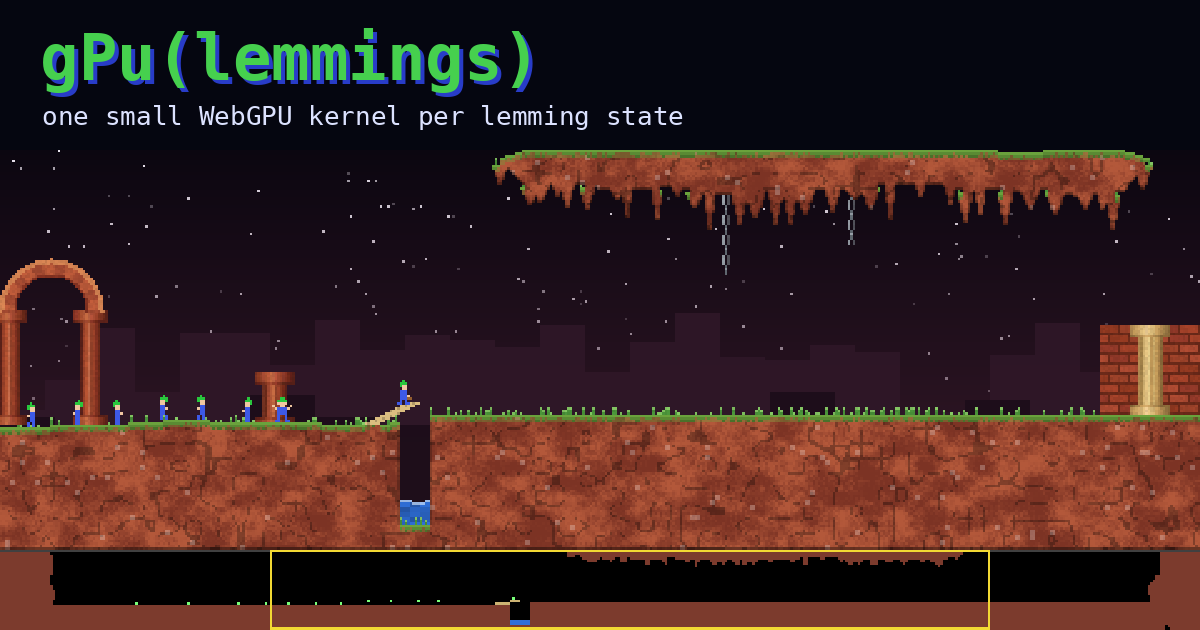
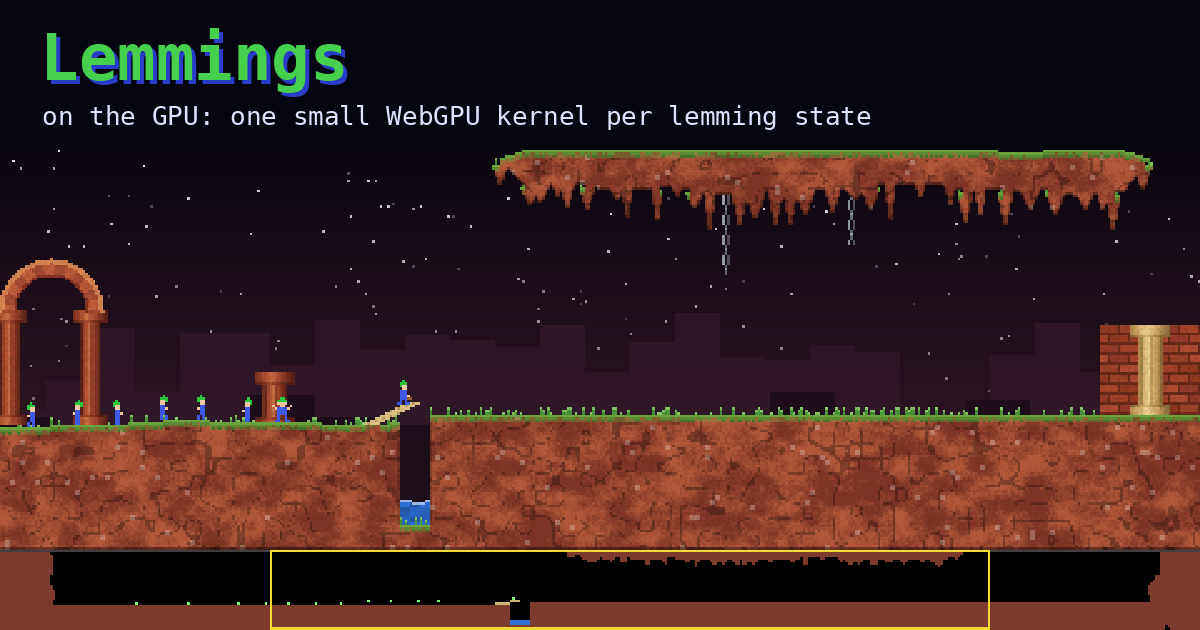
Lemmings: rename from gPu(lemmings)
gPu(doom) reads as P(doom); the lemmings port had no such pun, so it is
plain Lemmings now. Page, menu, manifest, link preview, README, WGSL
headers and the listing. The URL and the saved-progress key stay.

Claude-Session: https://claude.ai/code/session_01P6Fqatg5gunBUe1xQBo87Q

Changed region(s): [[0.0308, 0.0302, 0.6475, 0.2111], [0.6783, 0.1508, 0.74, 0.2111]]

diff --git a/fun-and-games/lemmings/index.html b/fun-and-games/lemmings/index.html
@@ -3,12 +3,12 @@
 <head>
 <meta charset="utf-8">
 <meta name="viewport" content="width=device-width,initial-scale=1,viewport-fit=cover,user-scalable=no">
-<title>gPu(lemmings)</title>
+<title>Lemmings</title>
 <meta name="description" content="A Lemmings-style game written as WebGPU compute shaders: each lemming state is its own small kernel, terrain is a GPU bitmap that bashers, miners and diggers carve, and one level releases ten thousand lemmings.">
 <meta property="og:type" content="website">
 <meta property="og:site_name" content="austegard.com">
-<meta property="og:title" content="gPu(lemmings)">
-<meta name="apple-mobile-web-app-title" content="gPu(lemmings)">
+<meta property="og:title" content="Lemmings">
+<meta name="apple-mobile-web-app-title" content="Lemmings">
 <meta property="og:description" content="Lemmings as WebGPU compute shaders: one small kernel per lemming state, terrain carved on the GPU, and a level of ten thousand lemmings.">
 <meta property="og:url" content="https://austegard.com/fun-and-games/lemmings/">
 <meta property="og:image" content="https://austegard.com/fun-and-games/lemmings/og-image.png">
@@ -16,7 +16,7 @@
 <meta property="og:image:height" content="630">
 <meta property="og:image:alt" content="A crowd of green-haired lemmings held back by a blocker while a builder lays a bridge over a water pit">
 <meta name="twitter:card" content="summary_large_image">
-<meta name="twitter:title" content="gPu(lemmings)">
+<meta name="twitter:title" content="Lemmings">
 <meta name="twitter:description" content="Lemmings as WebGPU compute shaders: one small kernel per lemming state, terrain carved on the GPU, and a level of ten thousand lemmings.">
 <meta name="twitter:image" content="https://austegard.com/fun-and-games/lemmings/og-image.png">
 <link rel="manifest" href="manifest.json">
@@ -106,7 +106,7 @@ button.go:disabled { opacity: .5; cursor: wait; }
 
 <div class="overlay" id="menu">
   <div class="card">
-    <h1>gPu(lemmings)</h1>
+    <h1>Lemmings</h1>
     <p>A Lemmings-style game written as WebGPU compute shaders. Every lemming state (walking, falling, building, bashing, mining, digging…) is its own small GPU kernel, run only over the lemmings in that state. The terrain is a GPU bitmap that bashers, miners, diggers and bombers carve. JavaScript writes the cursor and the chosen skill, and plays the sounds.</p>
     <p class="mute">Not affiliated with the original 1991 game. The levels, art and sounds are made for this page.</p>
     <ol id="levels"></ol>
@@ -146,10 +146,10 @@ button.go:disabled { opacity: .5; cursor: wait; }
 </div>
 
 <script type="module">
-import { Game } from "./engine.js?v=20261029050339";
-import { LEVELS } from "./levels.js?v=20261029050339";
-import { SKILLS, STATE_NAMES, TPS, SND, S, ASSIGN } from "./shaders.js?v=20261029050339";
-import { drawIcon } from "./sprites.js?v=20261029050339";
+import { Game } from "./engine.js?v=20261029120633";
+import { LEVELS } from "./levels.js?v=20261029120633";
+import { SKILLS, STATE_NAMES, TPS, SND, S, ASSIGN } from "./shaders.js?v=20261029120633";
+import { drawIcon } from "./sprites.js?v=20261029120633";
 
 const $ = (id) => document.getElementById(id);
 const canvas = $("screen");

diff --git a/fun-and-games/index.html b/fun-and-games/index.html
@@ -36,7 +36,7 @@
     <!--gen:tools-->
     <div class="sort-ctl" role="group" aria-label="Order of the tools" hidden><span class="kicker">Order</span><button type="button" data-sort="new" aria-controls="tools-list" aria-pressed="true">Newest</button><button type="button" data-sort="az" aria-controls="tools-list" aria-pressed="false">A&ndash;Z</button></div>
     <ul class="place-list" id="tools-list">
-      <li data-added="2026-10-29"><a href="/fun-and-games/lemmings/"><span class="nm">gPu(lemmings)</span><span class="sub">Lemmings as WebGPU compute shaders: one small kernel per lemming state, terrain carved on the GPU, and a level of 10,000 lemmings</span></a></li>
+      <li data-added="2026-10-29"><a href="/fun-and-games/lemmings/"><span class="nm">Lemmings</span><span class="sub">Lemmings in WebGPU compute: one small kernel per lemming state, and 10,000 lemmings at once</span></a></li>
       <li data-added="2026-10-28"><a href="/fun-and-games/prism-break/"><span class="nm">Prism Break</span><span class="sub">Brick breaker steered by tilting your phone: glass bricks shatter in WebGPU light, upgrades, a synth score</span></a></li>
       <li data-added="2026-10-27"><a href="/fun-and-games/asteroids-3d/"><span class="nm">Asteroids 3D</span><span class="sub">First-person Asteroids in WebGPU: tilt to steer, tap to fire, slide to thrust or brake</span></a></li>
       <li data-added="2026-10-27"><a href="/fun-and-games/doom/"><span class="nm">gPu(doom)</span><span class="sub">The Doom engine as WebGPU compute shaders: BSP rendering and the game tic run on the GPU</span></a></li>
@@ -86,7 +86,7 @@
     <h2 id="h-readmes">Readmes</h2>
     <p class="measure">README files on GitHub, for the tools that have one.</p>
     <ul class="t-list t-cols">
-      <li><a class="ext" rel="noopener" href="https://github.com/oaustegard/oaustegard.github.io/blob/main/fun-and-games/lemmings/README.md">gPu(lemmings)</a></li>
+      <li><a class="ext" rel="noopener" href="https://github.com/oaustegard/oaustegard.github.io/blob/main/fun-and-games/lemmings/README.md">Lemmings</a></li>
       <li><a class="ext" rel="noopener" href="https://github.com/oaustegard/oaustegard.github.io/blob/main/fun-and-games/prism-break/README.md">Prism Break</a></li>
       <li><a class="ext" rel="noopener" href="https://github.com/oaustegard/oaustegard.github.io/blob/main/fun-and-games/asteroids-3d/README.md">Asteroids 3D</a></li>
       <li><a class="ext" rel="noopener" href="https://github.com/oaustegard/oaustegard.github.io/blob/main/fun-and-games/doom/README.md">gPu(doom)</a></li>

diff --git a/tools.html b/tools.html
@@ -145,7 +145,7 @@
         <div class="hub-d__head"><h2 id="h-fun-and-games"><a href="/fun-and-games/">Fun &amp; Games</a></h2><p class="spot"><b>42</b> <span>tools</span></p></div>
         <p class="blurb">Games, generative toys, phone gadgets, calculators and math demos</p>
         <ul class="place-list" id="list-fun-and-games">
-          <li data-kind="game" data-added="2026-10-29"><a href="/fun-and-games/lemmings/"><span class="nm">gPu(lemmings)</span><span class="sub">Lemmings as WebGPU compute shaders: one small kernel per lemming state, terrain carved on the GPU, and a level of 10,000 lemmings</span></a></li>
+          <li data-kind="game" data-added="2026-10-29"><a href="/fun-and-games/lemmings/"><span class="nm">Lemmings</span><span class="sub">Lemmings in WebGPU compute: one small kernel per lemming state, and 10,000 lemmings at once</span></a></li>
           <li data-kind="game" data-added="2026-10-28"><a href="/fun-and-games/prism-break/"><span class="nm">Prism Break</span><span class="sub">Brick breaker steered by tilting your phone: glass bricks shatter in WebGPU light, upgrades, a synth score</span></a></li>
           <li data-kind="game" data-added="2026-10-27"><a href="/fun-and-games/asteroids-3d/"><span class="nm">Asteroids 3D</span><span class="sub">First-person Asteroids in WebGPU: tilt to steer, tap to fire, slide to thrust or brake</span></a></li>
           <li data-kind="game" data-added="2026-10-27"><a href="/fun-and-games/doom/"><span class="nm">gPu(doom)</span><span class="sub">The Doom engine as WebGPU compute shaders: BSP rendering and the game tic run on the GPU</span></a></li>

diff --git a/fun-and-games/lemmings/engine.js b/fun-and-games/lemmings/engine.js
@@ -1,10 +1,10 @@
-// GPU plumbing for gPu(lemmings): buffers, pipelines and the per-tick encode. The whole game state
+// GPU plumbing for Lemmings: buffers, pipelines and the per-tick encode. The whole game state
 // lives in GPU buffers. JS writes the cursor, the click, the chosen skill and the release rate into
 // a uniform buffer and reads back a small world block for the panel and the sounds.
 
-import { loadWGSL, loadPresentWGSL, MAXL, MAXVIEW, NS, WD, ROM, ARGS_WORDS, AUX_FIELD, STATE_KERNELS, SKILLS } from "./shaders.js?v=20261029050339";
-import { buildSprites } from "./sprites.js?v=20261029050339";
-import { buildTerrain, themeWords } from "./levels.js?v=20261029050339";
+import { loadWGSL, loadPresentWGSL, MAXL, MAXVIEW, NS, WD, ROM, ARGS_WORDS, AUX_FIELD, STATE_KERNELS, SKILLS } from "./shaders.js?v=20261029120633";
+import { buildSprites } from "./sprites.js?v=20261029120633";
+import { buildTerrain, themeWords } from "./levels.js?v=20261029120633";
 
 export const MINIMAP_H = 32;
 export const VIEW_H = 160;   // a taller level scrolls vertically

diff --git a/index.html b/index.html
@@ -161,7 +161,7 @@
         <div class="district__head"><h3><a href="/fun-and-games/">Fun &amp; Games</a></h3><p class="spot"><b>42</b> tools</p></div>
         <p class="blurb">Games, generative toys, phone gadgets, calculators and math demos</p>
         <ul class="places">
-          <li><a href="/fun-and-games/lemmings/">gPu(lemmings)</a></li>
+          <li><a href="/fun-and-games/lemmings/">Lemmings</a></li>
           <li><a href="/fun-and-games/prism-break/">Prism Break</a></li>
           <li><a href="/fun-and-games/asteroids-3d/">Asteroids 3D</a></li>
           <li><a href="/fun-and-games/doom/">gPu(doom)</a></li>

diff --git a/fun-and-games/lemmings/shaders.js b/fun-and-games/lemmings/shaders.js
@@ -1,4 +1,4 @@
-// Constants and WGSL loading for gPu(lemmings). The kernels live in common.wgsl, sim.wgsl,
+// Constants and WGSL loading for Lemmings. The kernels live in common.wgsl, sim.wgsl,
 // render.wgsl and present.wgsl; this file generates the constants they share and joins them. Every lemming state is its own small kernel. Each tick, classify puts every
 // live lemming's index on the queue for its current state, args turns the queue lengths into
 // indirect dispatch sizes, and each state kernel runs only over its own queue. Terrain edits (bash,

diff --git a/fun-and-games/lemmings/README.md b/fun-and-games/lemmings/README.md
@@ -1,4 +1,4 @@
-# gPu(lemmings)
+# Lemmings
 
 A Lemmings-style game written as WebGPU compute shaders. The lemmings, the terrain they carve and the
 picture all live in GPU buffers. JavaScript writes the cursor, the chosen skill and the release rate
